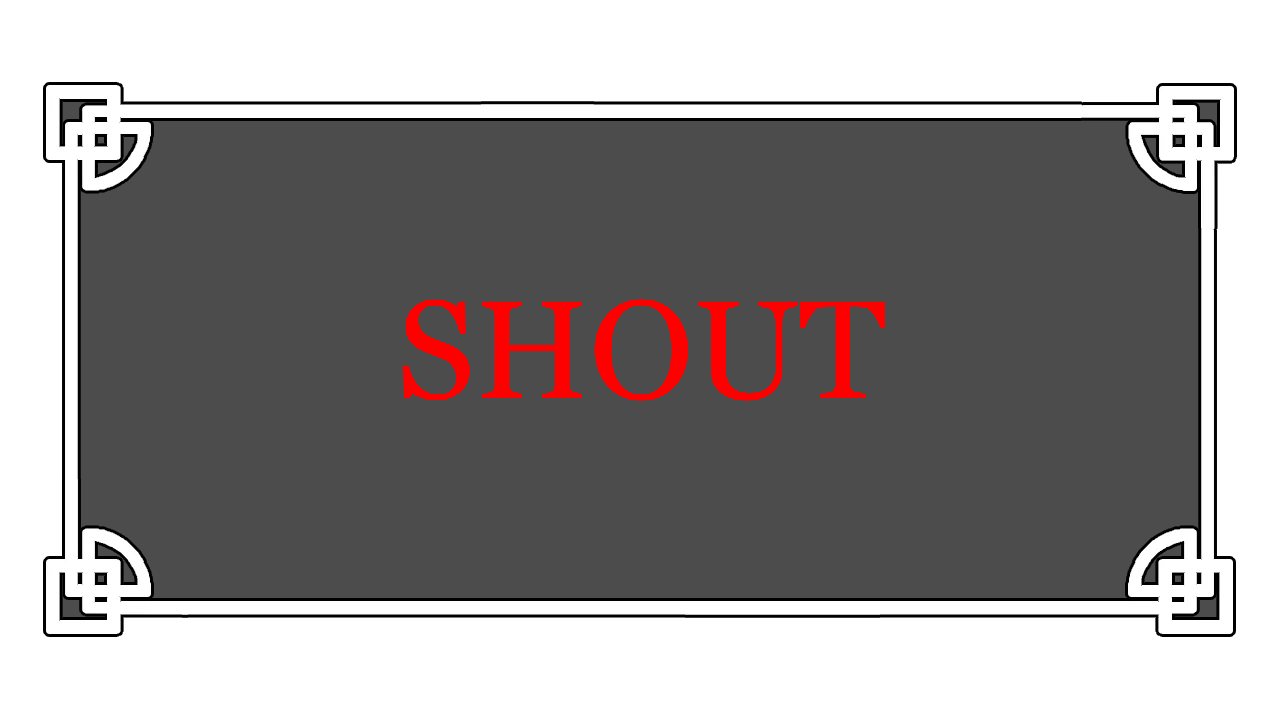
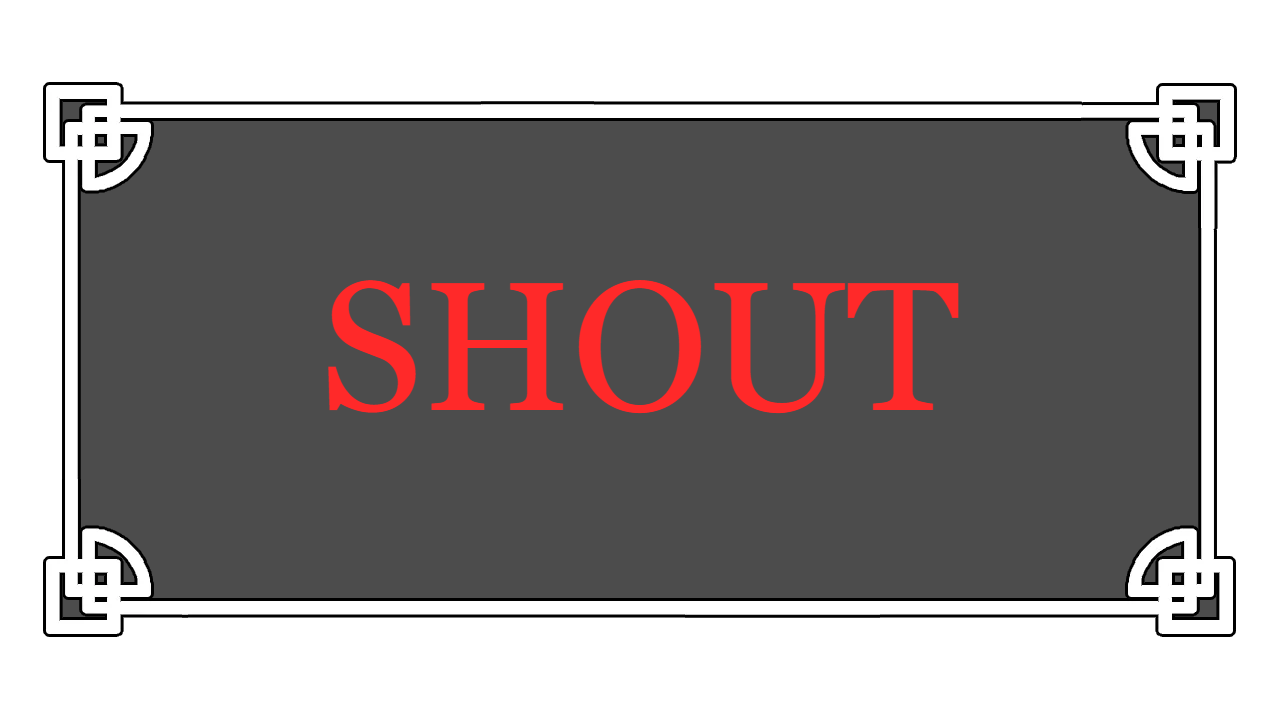
voip: updates range textures
Replaces the shout, whisper, talk textures with ones that have larger text (supplied by Graves)

(also includes some versioning updates, just ignore those)

Changed region(s): [[0.25, 0.3667, 0.75, 0.5806]]

diff --git a/skymp5-backend/routes/version.js b/skymp5-backend/routes/version.js
@@ -3,8 +3,8 @@ const fs = require('fs')
 
 // Written by the manager Build tab. LATEST_VERSION = launcher app release (GET /api/version, update prompt)
 // CLIENT_VERSION = client files release (baked into data/files-version.json by merge-files.js)
-const LATEST_VERSION = '2.1.4'
-const CLIENT_VERSION = '0.0.13'
+const LATEST_VERSION = '2.1.5'
+const CLIENT_VERSION = '0.0.14'
 const DOWNLOAD_URL   = 'https://api.alduinak.com/downloads/AlduinakLauncher.exe'
 
 router.get('/', (_req, res) => {
